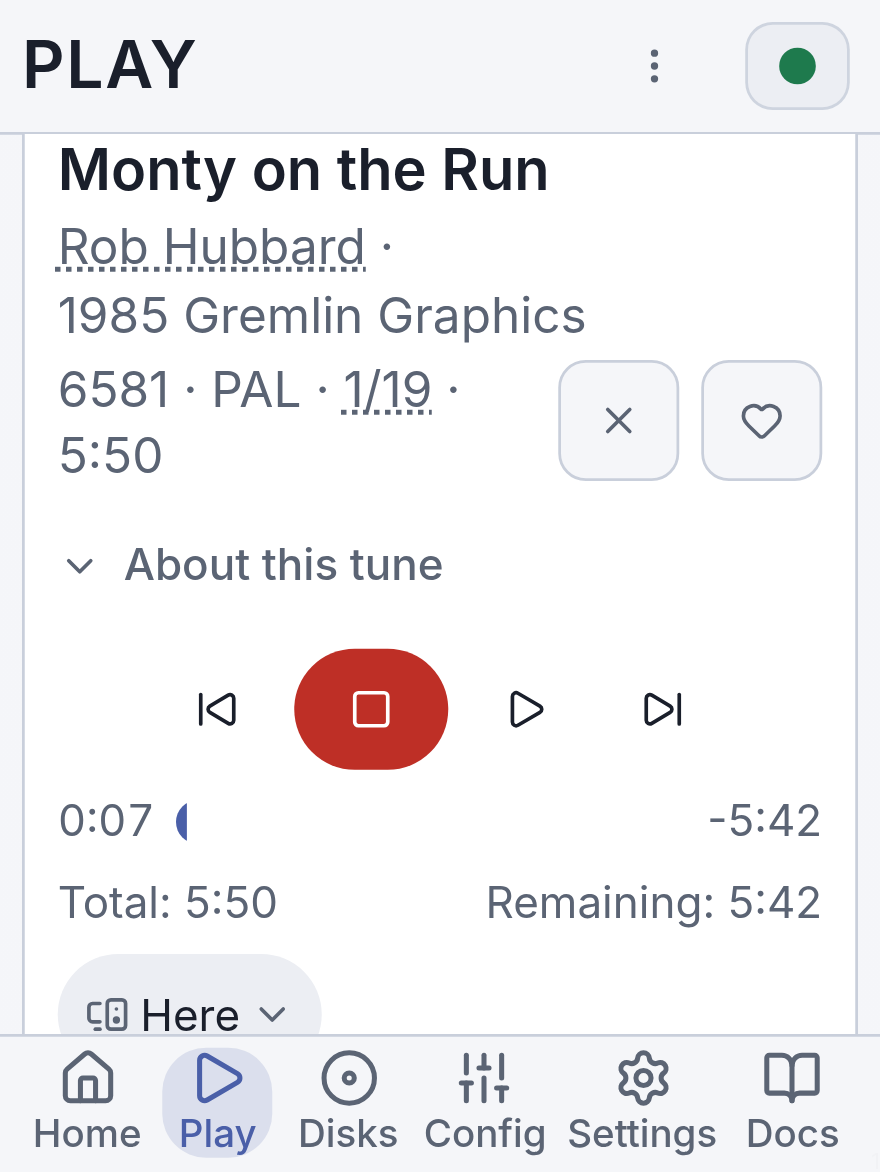
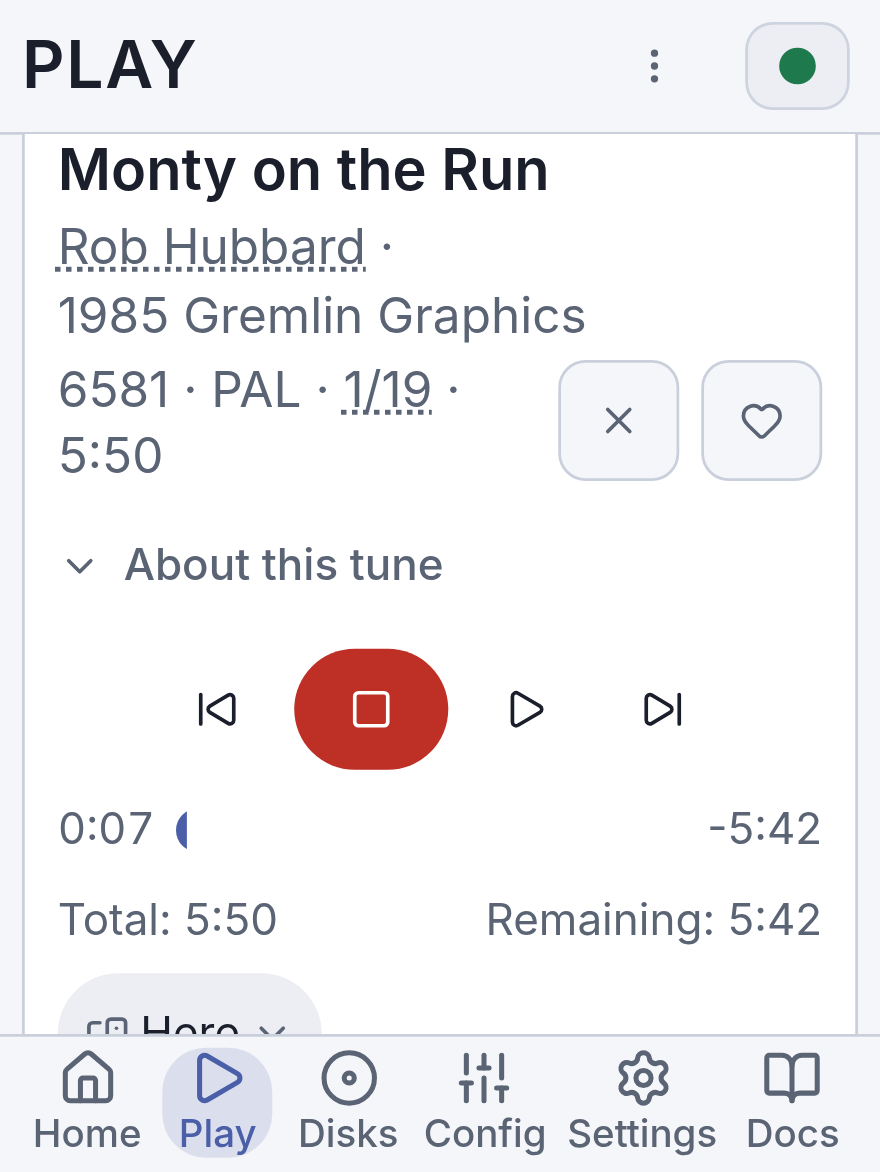
fix(play): update paused seek clocks and enforce target size

diff --git a/tests/unit/playFiles/usePlaybackController.test.tsx b/tests/unit/playFiles/usePlaybackController.test.tsx
@@ -3820,6 +3820,56 @@ describe("a seek keeps the time played by earlier tunes", () => {
     expect(setPlayedMs).toHaveBeenLastCalledWith(270_000);
     expect(clock.current(Date.now() + 5_000)).toBe(270_000);
   });
+
+  it.each(["relative", "scrub"])("updates the paused position immediately after a %s seek", async (method) => {
+    const clock = new PlaybackClock();
+    clock.hydrate(250_000, null);
+    const setElapsedMs = vi.fn();
+    const { result } = renderPlaybackController([createPlaylistItem({ category: "sid" })], {
+      isPlaying: true,
+      isPaused: true,
+      elapsedMs: 10_000,
+      playedClockRef: { current: clock },
+      trackStartedAtRef: { current: 0 },
+      setElapsedMs,
+      localSidPlaybackController: seekingController(10, 30),
+    } as any);
+
+    await act(async () => {
+      if (method === "relative") await result.current.handleSeekBy(20);
+      else result.current.seekToFraction(0.5, 60_000);
+      await vi.waitFor(() => expect(setElapsedMs).toHaveBeenLastCalledWith(30_000));
+    });
+    expect(clock.current(Date.now() + 5_000)).toBe(270_000);
+  });
+
+  it("subtracts a backward paused scrub from the position reached by the preceding scrub", async () => {
+    const clock = new PlaybackClock();
+    clock.hydrate(250_000, null);
+    const options: any = {
+      isPlaying: true,
+      isPaused: true,
+      elapsedMs: 10_000,
+      playedClockRef: { current: clock },
+      trackStartedAtRef: { current: 0 },
+      localSidPlaybackController: seekingController(10, 10),
+    };
+    options.setElapsedMs = vi.fn((position: number) => {
+      options.elapsedMs = position;
+    });
+    const { result } = renderPlaybackController([createPlaylistItem({ category: "sid" })], options);
+
+    await act(async () => {
+      result.current.seekToFraction(0.5, 60_000);
+      await vi.waitFor(() => expect(options.setElapsedMs).toHaveBeenLastCalledWith(30_000));
+    });
+    await act(async () => {
+      result.current.seekToFraction(0.2, 60_000);
+      await vi.waitFor(() => expect(options.setElapsedMs).toHaveBeenLastCalledWith(12_000));
+    });
+
+    expect(clock.current(Date.now() + 5_000)).toBe(252_000);
+  });
 });
 
 describe("playback and the Listen-on choice", () => {

diff --git a/playwright/playback.spec.ts b/playwright/playback.spec.ts
@@ -10,6 +10,7 @@ import { test, expect } from "@playwright/test";
 import { saveCoverageFromPage } from "./withCoverage";
 import type { Page, TestInfo } from "@playwright/test";
 import * as path from "node:path";
+import { mkdirSync } from "node:fs";
 import { spawnSync } from "node:child_process";
 import { createMockC64Server } from "../tests/mocks/mockC64Server";
 import { seedUiMocks, uiFixtures } from "./uiMocks";
@@ -697,6 +698,32 @@ test.describe("Playback file browser", () => {
     const lastUpload = server.sidplayRequests[server.sidplayRequests.length - 1];
     expect(lastUpload.method).toBe("POST");
     await snap(page, testInfo, "local-playback-uploaded");
+  });
+
+  test("the local seek bar has a 44px target on the compact screen", async ({ page }: { page: Page }, testInfo) => {
+    await page.setViewportSize({ width: 320, height: 426 });
+    await page.addInitScript(() => {
+      localStorage.setItem("c64u_playback_engine", "local");
+      localStorage.setItem("c64u_sid_emulation_engine", "sidlite");
+    });
+    const fixtureFolder = testInfo.outputPath("seek-fixture");
+    mkdirSync(fixtureFolder, { recursive: true });
+    const generated = spawnSync(process.execPath, [
+      "scripts/generate-test-sid.mjs",
+      "--hz",
+      "550",
+      "--out",
+      path.join(fixtureFolder, "seek.sid"),
+    ]);
+    expect(generated.status, generated.stderr.toString()).toBe(0);
+    await page.goto("/play");
+    await addLocalFolder(page, fixtureFolder);
+    await page.getByTestId("playlist-play").click();
+    const seek = page.getByTestId("playback-progress-seek");
+    await expect(seek).toBeVisible();
+    const bounds = await seek.boundingBox();
+    expect(bounds?.height).toBeGreaterThanOrEqual(44);
+    expect(bounds?.width).toBeGreaterThanOrEqual(44);
   });
 
   test("local SID playback does not throw unavailable error", async ({ page }: { page: Page }, testInfo: TestInfo) => {

diff --git a/src/pages/playFiles/hooks/usePlaybackController.ts b/src/pages/playFiles/hooks/usePlaybackController.ts
@@ -2363,6 +2363,8 @@ export function usePlaybackController({
     const paused = isPausedRef.current;
     const clockTarget = { positionMs, elapsedMs: elapsedMsRef.current, paused, now: Date.now() };
     setPlayedMs(seekPlaybackClocks(playedClockRef.current, trackStartedAtRef, clockTarget));
+    elapsedMsRef.current = positionMs;
+    setElapsedMs(positionMs);
     rescheduleAutoAdvance(positionMs);
     try {
       // Raced, not just guarded. A `try/finally` only covers a seek that *rejects*; one that never
@@ -2392,7 +2394,7 @@ export function usePlaybackController({
       scrubEndingRef.current = false;
     }
     addLog("debug", "Local SID scrub ended", { toSeconds: positionMs / 1000 });
-  }, [playedClockRef, setPlayedMs, trackStartedAtRef, rescheduleAutoAdvance]);
+  }, [playedClockRef, setPlayedMs, setElapsedMs, trackStartedAtRef, rescheduleAutoAdvance]);
 
   /**
    * Jump to a fraction of the tune (tapping/dragging the progress bar).
@@ -2443,10 +2445,12 @@ export function usePlaybackController({
       // rebased or the audio jumps while the display carries on from the old spot.
       const clockTarget = { positionMs, elapsedMs: elapsedMsRef.current, paused: isPausedRef.current, now: Date.now() };
       setPlayedMs(seekPlaybackClocks(playedClockRef.current, trackStartedAtRef, clockTarget));
+      elapsedMsRef.current = positionMs;
+      setElapsedMs(positionMs);
       rescheduleAutoAdvance(positionMs);
       addLog("debug", "Local SID seek", { deltaSeconds, fromSeconds, toSeconds: positionMs / 1000 });
     },
-    [playedClockRef, setPlayedMs, trackStartedAtRef, rescheduleAutoAdvance],
+    [playedClockRef, setPlayedMs, setElapsedMs, trackStartedAtRef, rescheduleAutoAdvance],
   );
   seekByRef.current = handleSeekBy;
 

diff --git a/src/pages/playFiles/components/PlaybackControlsCard.tsx b/src/pages/playFiles/components/PlaybackControlsCard.tsx
@@ -636,7 +636,7 @@ export const PlaybackControlsCard = ({
                 type="button"
                 data-testid="playback-progress-seek"
                 aria-label="Seek within the tune"
-                className="flex-1 min-w-0 cursor-pointer py-2 -my-2 touch-none"
+                className="flex-1 min-w-0 min-h-11 cursor-pointer py-2 -my-2 touch-none"
                 onPointerDown={(event) => {
                   event.currentTarget.setPointerCapture(event.pointerId);
                   onSeekToFraction(fractionFromPointer(event));

diff --git a/docs/hil/2026-09-30-play-bugbash.md b/docs/hil/2026-09-30-play-bugbash.md
@@ -1,0 +1,169 @@
+# Play HIL bug bash — 30 September 2026
+
+**Partial result: two defects repaired and checked on the Pixel 4. Remote playback,
+Both output, and program launches remain unverified because the hardware rig was
+occupied by another campaign. This is not a bug-free certification.**
+
+## Bench and isolation
+
+- Pixel 4 `9B081FFAZ001WX`, Android 16, native 1080×2280 geometry; no density override.
+- Source revision `23cba3a27`, with the working-tree fixes below; displayed build
+  `1.0.7-rc1-23cba`. The debug APK was built, installed and launched twice, including
+  the repaired code. Repaired APK SHA-256:
[1 lines of base64/hex data omitted]
+- A preflight info read found C64U firmware `1.2.1RC` / core `1.50`, and U2 firmware
+  `3.15`. Neither was driven during this session. U64 was left alone.
+- An existing `1541ultimate` deep firmware campaign held the C64U device lock. U2
+  shares that computer physically, so it was unavailable too. Its log was
+  `/home/chris/dev/c64/1541ultimate/scratch/fpga-verify/official-deep/run.log`.
+  Phone Wi-Fi was disabled to prevent app traffic interfering with that campaign.
+- Android operations used droidctl. CDP supplied observations and test setup;
+  playback actions used physical taps and Android key events. Fixture imports used
+  the actual Android Storage Access Framework folder picker.
+- Media volume was 3/25, briefly 5/25 for transition measurements, then restored
+  to 3/25. It never exceeded 5. Notifications were denied at the system prompt.
+
+Raw evidence is in the ignored local directory
+`artifacts/play-bugbash-2026-09-30/`; the c64scope session is
+`pt-20260930T141953Z`. `actions.jsonl` records physical control actions. JSON
+snapshots contain visible text, playback session state, sink counters, engine
+state and recent logs. WAV files contain microphone or native PCM evidence as
+named; these are different observation points.
+
+## Confirmed defects and repairs
+
+### Paused seeking leaves elapsed time stale and miscounts subsequent seeks
+
+Severity: medium. With local playback paused at 7.825 seconds, keypad seeking
+moved the audio target to 11.425 seconds but left elapsed time unchanged after
+settling. Resume exposed the new position. Repeated paused bar seeks reproduced
+the same stale display and incorrectly increased cumulative played time when
+seeking backward, because the previous position remained stale.
+
+Both seek entry points in
+`src/pages/playFiles/hooks/usePlaybackController.ts` now update elapsed state and
+its reference after rebasing the clocks. Regression tests cover relative and
+fractional paused seeks, plus a forward/backward sequence preserving the time
+played by earlier tunes. The initial two regression cases failed without the fix.
+
+The repaired APK was checked with paused targets approximately 90.030, 36.147 and
+176.513 seconds. Cumulative played values moved 90.787 → 36.904 → 177.270 seconds,
+preserving the earlier contribution rather than adding the backward distance.
+After preparation, the final visible elapsed time was 2:56. Evidence:
+`keypad-seek-paused-settled.json`, `paused-seek-back.json`,
+`fixed-paused-seek-*.json`, `fixed-seek-final-settled.json`.
+
+### Seek bar is smaller than the required touch target
+
+Severity: medium. The seek button measured 36 CSS pixels high on the Pixel 4 and
+32 on the compact browser profile. It now has a minimum height of 44 pixels.
+The compact-screen regression starts a valid generated SID locally and measures
+the rendered target. Removing the fix made it fail at 32 pixels; restoring the
+fix passed. The repaired Pixel target also measured at least 44 pixels.
+
+CTA documentation was updated. Only the changed control screenshots were kept:
+
+- `docs/img/app/play/sid-radio/profiles/compact/01-controls.png`
+- `docs/img/app/play/sid-radio/profiles/medium/01-controls.png`
+
+## Exercised behavior
+
+| Area                             | Actual result and limits                                                                                                                                                                                                                                                                                                                          |
+| -------------------------------- | ------------------------------------------------------------------------------------------------------------------------------------------------------------------------------------------------------------------------------------------------------------------------------------------------------------------------------------------------- |
+| Offline HVSC search and playback | Installed HVSC v85 contained 61,157 indexed songs. Searching Galway, selecting a result and starting Here playback worked; the microphone recorded audible music.                                                                                                                                                                                 |
+| Pause/resume                     | Paused elapsed remained 109.081 seconds for over 34 seconds, then resumed to 112.091 seconds. Repeated pause/resume also worked after waking and with notifications denied.                                                                                                                                                                       |
+| Seeking while playing            | Backward and forward bar seeks moved within the current tune. Cached seeks landed; cold seeks displayed preparation progress.                                                                                                                                                                                                                     |
+| Screen sleep/wake                | Actual screen-off interval of approximately 169 seconds. Elapsed moved 28.286 → 197.292 seconds; native sink reported zero starvation seconds. A 20-second microphone tail remained audible. This proves continuity across this interval, not overnight Doze reliability or absence of every audible defect.                                      |
+| Local folder import              | Real SAF permission flow imported two generated SIDs, one PRG and one MOD from Download/Play-QA-20260930. Import preserved the paused tune. PRG/MOD launch was not attempted against occupied hardware.                                                                                                                                           |
+| Local transport                  | Physical Next and Previous selected the adjacent QA SIDs. ReSIDfp and SIDLite both started, paused, resumed and changed tracks.                                                                                                                                                                                                                   |
+| Keypad navigation                | Section traversal and an inner control walk reached the transport, seek, output chooser, mute/volume, shuffle/repeat, station/search actions, and sleep controls. Selected controls scrolled into view. Seeking by arrow keys worked, exposing the paused-seek defect above. This was a sampled walk, not an exhaustive navigation certification. |
+| HVSC batch addition              | Monty on the Run, Commando and Delta added together while the active QA tune remained paused. Monty played locally with credits, a 5:50 first-tune duration and 19 subtunes.                                                                                                                                                                      |
+| Subtunes and auto-advance        | Selecting Monty's second subtune displayed 2/19 and 0:12, and started the correct engine tune index. On completion the playlist advanced to Commando.                                                                                                                                                                                             |
+| After-this-tune sleep timer      | Arming This tune on the 12-second subtune stopped local playback at its end, cleared the playback session and reset the timer to Off rather than advancing.                                                                                                                                                                                       |
+| Offline CommoServe               | Search reported the DNS failure, preserved playback state and allowed closing the browser. Online results, downloads and archive launches were not tested.                                                                                                                                                                                        |
+| Offline device browser           | C64U import was disabled with “Needs a connected device”, while Local and installed HVSC remained available.                                                                                                                                                                                                                                      |
+
+## Transition evidence
+
+Generated 550 Hz and 900 Hz triangle-tone SIDs used master volume 4/15. Phone
+volume remained low. Music microphone samples were band-limited to 300–6000 Hz
+for level assessment; a broadband room-noise reading was not used as a dropout
+oracle.
+
+- ReSIDfp, configured 1.5-second crossfade, Next: native PCM graded
+  **SEAMLESS CROSSFADE**, zero gap, 1.2 seconds above the tone-presence threshold,
+  23/23 falling and rising steps. See `paired-residfp-next-pcm.wav` and its grade.
+- SIDLite, Next: the original recording included the tail of a preceding warm-up
+  transition. Excluding its first two seconds isolated the intended join, which
+  graded seamless with zero gap and 23/23 monotonic steps.
+- SIDLite, Previous: measured bins show an uninterrupted linear exchange over
+  approximately 1.5 seconds, with zero gap. The default room-oriented grader said
+  RAGGED: its transient rejection used the nearly-zero digital reference floor
+  and held presence flags through fade sidebands. A separately labelled tonal-only
+  diagnostic, retaining independent percentile floors and continuity checks,
+  graded 1.2 seconds of overlap and 23/23 monotonic steps. Both outputs are retained;
+  this diagnostic adjustment is not a change to the production grader.
+- Microphone trials produced RAGGED or short GAP verdicts despite clean paired
+  PCM. Room/speaker effects remain unresolved. These recordings do **not** establish
+  a production transition defect, and do **not** prove end-to-end speaker joins
+  universally smooth. With crossfade off, one microphone join measured a 0.1-second
+  gap; that observation has not been attributed to a pipeline layer.
+
+The engine, native sink, and speaker are separate observation points. Clean PCM
+must not be reported as clean sound on every output route.
+
+## Usability limitation
+
+Uncached ReSIDfp seeks near the end of a three-minute tune required tens of seconds
+of rendering. The UI showed preparation progress and an estimate around 64
+seconds for one near-end request. Cached seeks were much faster. This is an
+observed delay, not a newly proven implementation defect; improving it needs a
+separate performance investigation. During preparation the UI may show the prior
+audible position alongside the requested target.
+
+## Validation and remaining work
+
+- Focused controller and playback-card Vitest suites: **169 tests passed**.
+- TypeScript checks and focused Prettier/ESLint checks passed.
+- Compact seek-target Playwright regression passed; removing the fix failed at
+  32 pixels; restoring it passed again. Its first harness run failed because the
+  older remote-upload fixture was truncated for real emulation; the test now
+  generates a valid SID with the repository's generator.
+- SID Radio screenshot capture passed; unchanged or unrelated screenshots were
+  discarded from this change.
+- Web/Capacitor/Android debug builds succeeded. No local iOS build was claimed.
+  The APK with both repairs was installed and exercised on the Pixel 4.
+- Coverage and broad suites were not run while HIL objectives remained open,
+  following the repository's HIL-loop exception.
+
+Build warnings were traced to mixed static/dynamic imports (the modules remain
+in their existing chunks), an unavailable local iOS toolchain, and the existing
+debuggable/minified Gradle variant. They do not provide evidence of a playback
+failure. A separate c64scope dependency audit found one existing moderate
+`fast-uri` advisory, GHSA-hrr3-gc8f-f4qj, affecting versions before 3.1.8; no
+dependency files were changed in this playback repair.
+
+Cleanup was verified by relaunching offline: the original Tone-Low/Tone-High
+playlist contained two items, playback was stopped, output preference was C64,
+and renderer/crossfade/developer settings were restored. The original recently
+played history was restored. Wi-Fi and normal screen timeout behavior were
+restored after force-stopping the app, avoiding renewed rig traffic. Media volume
+was confirmed at 3/25. Notification permission remains denied, and the QA fixture
+folder/SAF grant remains available for continuation. The unused device-lock waiter
+was cancelled; the firmware campaign was left running.
+
+Required continuation after the firmware campaign releases **both** device locks:
+
+1. C64U device browsing and SID/PRG/MOD/CRT/disk launches from local and remote
+   sources, with representative valid content rather than import-only evidence.
+2. Remote and Both playback: output routing, pause/resume, skips, sleep/wake,
+   reconnect, cached-device SID handover, and measured sound transitions.
+3. U2 playback and unsupported-stream capability gates; U64 remains reserved.
+4. Online CommoServe searches, downloads, archive extraction and launches.
+5. Longer background/Doze soak; repeat/shuffle, rapid transport, held scrubbing,
+   ranking and station generation, sleep-timer boundaries, playlist edits during
+   playback, corrupt/unavailable files and interruption recovery.
+6. Resolve speaker-level transition uncertainty with repeatable microphone
+   measurements. Then run final validation and coverage if converging this change.
+
+The session's hardware blocker prevents an exhaustive or merge-ready claim.

diff --git a/docs/cta-inventory.md b/docs/cta-inventory.md
@@ -372,7 +372,7 @@ not-connected / empty / single-device).
 - Game Mode — button — `play-open-game-mode` — R✅ I✅ _(flag `remote_input_enabled`; visible only while `isPlaying`)_ — starts the remembered picture/sound and opens the **Remote Input sheet** in Game Mode (§5). **Leads** Remote Input for a `prg`/`crt`/`disk` item (overwhelmingly likely to be a game) and **follows** it for a `sid`/`mod` item.
 - Remote Input — button — `play-open-controller` — R✅ I✅ _(flag `remote_input_enabled`; visible only while `isPlaying`)_ — opens the **Remote Input sheet** (§5). Both controller actions sit in the sheet-actions row **after** SID Radio and Liked Tunes: all of them open a sheet, and the two station actions are about what plays next while these leave the music behind.
 - Tune notes — expand/collapse — `tune-details-toggle` — R✅ I✅ — reveals `tune-details-body`, which carries the STIL entry for the tune. The chevron leads the label and the button is only as wide as its content, so no part of its target sits beneath the favourite action on the line above
-- Progress bar (seek) — button — `playback-progress-seek` — R✅ I✅ — tap or drag to jump within the tune; **also operable without a pointer**: `ArrowLeft`/`ArrowRight` step ±2%. Rendered only for audio this device renders (see _Listen on_ below); on the C64 route the bar is a plain indicator (`playback-progress`) and not focusable, because the machine plays the SID on its own chip and cannot be scrubbed.
+- Progress bar (seek) — button — `playback-progress-seek` — R✅ I✅ — minimum 44px target height; tap or drag to jump within the tune; **also operable without a pointer**: `ArrowLeft`/`ArrowRight` step ±2%. Rendered only for audio this device renders (see _Listen on_ below); on the C64 route the bar is a plain indicator (`playback-progress`) and not focusable, because the machine plays the SID on its own chip and cannot be scrubbed.
 - Previous / Next **held** — scrub — same `playlist-prev|next` buttons — R✅ I✅ — a hold scrubs the current tune instead of changing track (local playback only); a tap still skips.
 
 **Listen on** — group `playback-engine-toggle` _(flag `c64u_local_engine_enabled`; SID items only)_ — an equal-width grid, three columns normally and two while **Both** is hidden, so the row holds one line on the compact profile; no origin icons, because a third of that row cannot fit icon plus label.
